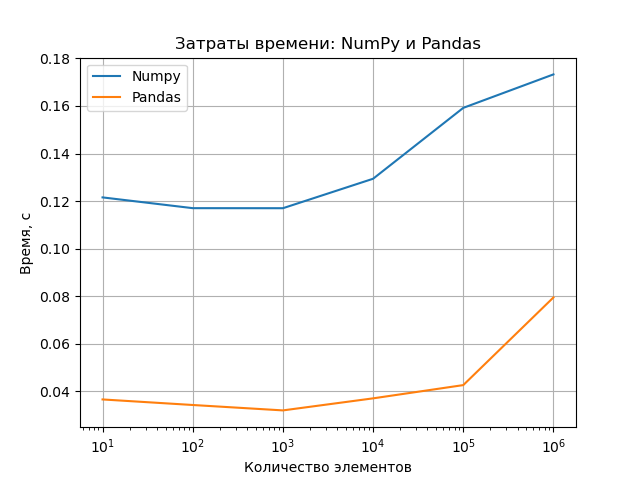
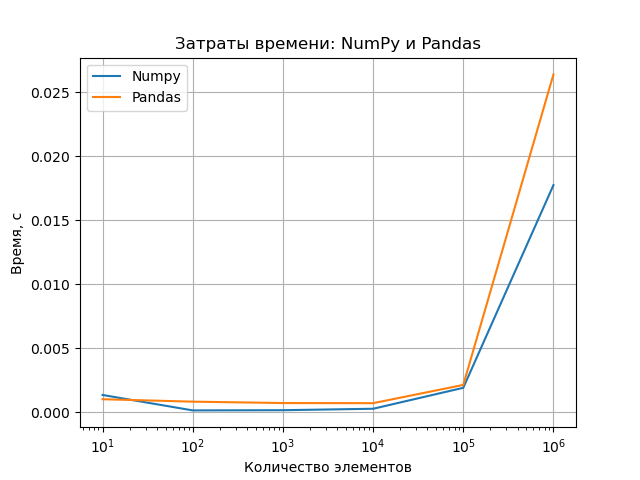
Modified Task 4, deleted creating the data from time checking

diff --git a/time.py b/time.py
@@ -1,6 +1,7 @@
 import task_numpy
 import task_pandas
 import timeit
+import numpy as np
 import matplotlib.pyplot as plt
 
 main_path = "collected_data/household_power_consumption.txt"
@@ -11,13 +12,14 @@ times_numpy = []
 times_pandas = []
 x = []
 
-func = 5  # Input number of function here
+func = 4  # Input number of function here
 
 for i in range(1, 7):
     i = 10 ** i
     x.append(i)
-    arr_numpy = victim_arr[:i]
-    arr_pandas = victim_df[:i]
+    rnd_row_index = np.random.choice(np.arange(0, len(victim_arr)), i, replace=True)
+    arr_numpy = victim_arr[rnd_row_index]
+    arr_pandas = victim_df.sample(i, replace=True)
     times_numpy.append(timeit.timeit(stmt='task_numpy.task_{}(arr_numpy)'.format(func), globals=globals(), number=1))
     times_pandas.append(timeit.timeit(stmt='task_pandas.task_{}(arr_pandas)'.format(func), globals=globals(), number=1))
 

diff --git a/task_numpy.py b/task_numpy.py
@@ -36,11 +36,11 @@ def print_met(arr, meter):
 
 
 def task_4(arr):
-    rnd_row_index = np.random.choice(np.arange(0, len(arr)), 500000, replace=True)
-    print_met(arr[rnd_row_index], 'Meter1')
-    print_met(arr[rnd_row_index], 'Meter2')
-    print_met(arr[rnd_row_index], 'Meter3')
-    return arr[rnd_row_index]
+    #  rnd_row_index = np.random.choice(np.arange(0, len(arr)), 500000, replace=True)
+    print_met(arr, 'Meter1')
+    print_met(arr, 'Meter2')
+    print_met(arr, 'Meter3')
+    return arr
 
 
 def task_5(arr):

diff --git a/task_pandas.py b/task_pandas.py
@@ -38,8 +38,8 @@ def print_mean(df, met):
     print("Mean of {}: {}".format(met, result))
 
 
-def task_4(df):
-    merged_df = df.sample(500000, replace=True)
+def task_4(merged_df):
+    #  merged_df = df.sample(500000, replace=True)
     print_mean(merged_df, 'Meter1')
     print_mean(merged_df, 'Meter2')
     print_mean(merged_df, 'Meter3')
